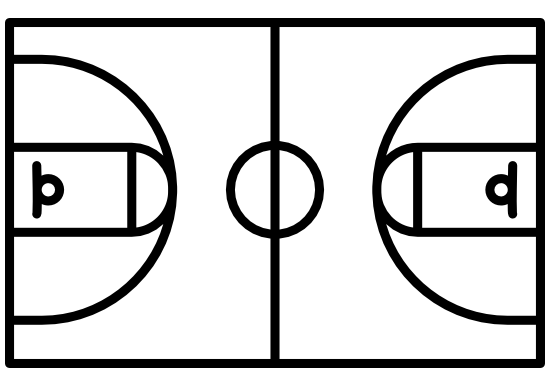
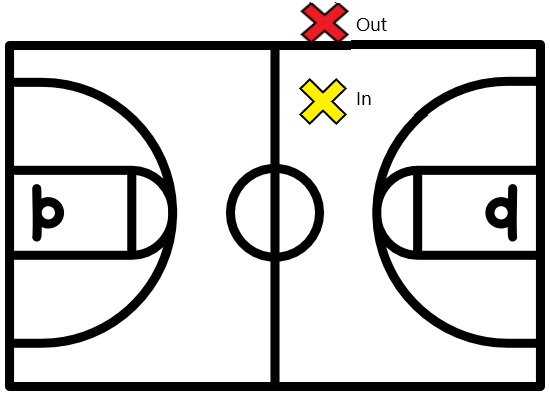
better links

diff --git a/rules.html b/rules.html
@@ -12,7 +12,7 @@
       <img src="images/bb.jpg" alt="picture of Basketball" />
       <nav>
         <ul>
-          <li><a href="index.html">Home</a></li>
+          <li><a href="index.html" id="HeadLink">Home</a></li>
         </ul>
       </nav>
     </header>
@@ -32,8 +32,8 @@
           <ol>
             <li>
               <p>The 3-Point Line</p>
-              <br />
               <img
+                id="3point"
                 src="images/half_court.png"
                 alt="picture of a Basketball half court"
                 width="550"
@@ -46,13 +46,21 @@
               </p>
             </li>
             <li>
-              <p>Out of Bounds</p>
+              <p>Ball Out of Bounds</p>
               <img
+                id="outOfBounds"
                 src="images/full court.png"
                 alt="picture of a Basketball full court"
                 width="550"
                 height="350"
               />
+              <p>
+                good summary of out of bounds rules
+                <a
+                  href="https://www.rookieroad.com/basketball/rules/out-of-bounds/#:~:text=In%20basketball%2C%20a%20ball%20is,sent%20it%20out%20loses%20possession.#basketball-out-of-bounds-rules"
+                  >here</a
+                >
+              </p>
             </li>
           </ol>
         </section>

diff --git a/index.html b/index.html
@@ -17,7 +17,7 @@ Data Last Modified: 3/7/2022 -->
       <img src="images/bb.jpg" alt="picture of Basketball" />
       <nav>
         <ul>
-          <li><a href="rules.html">Rules</a></li>
+          <li><a href="rules.html" id="headLink">Rules</a></li>
         </ul>
       </nav>
     </header>
